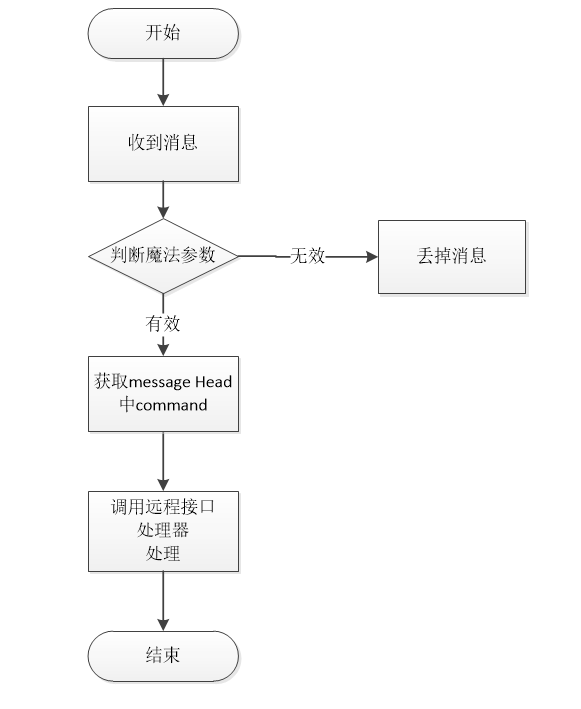
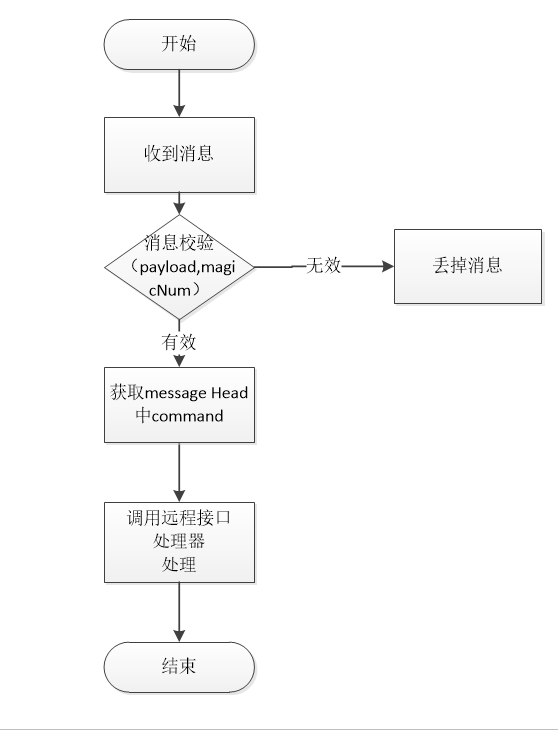
update message validate

diff --git a/design-en/c.Network design v1.3.md b/design-en/c.Network design v1.3.md
@@ -123,6 +123,12 @@ The network module is the basic module of the entire system, which is used to ma
 
   ![](./image/network-module/recMessage2.png)
 
+* Message verification ：
+
+        payload validate ：First 4 bytes of  sha256(sha256(payload))
+
+        magicNumbe ：Determine if the nodegroups collection contains the magicNumber
+
 * External module network message receiving interface constraint
 
    - method : ***  //Same as the CMD instruction in the message header, constraining 12 bytes

diff --git a/design-zh-CHS/c.网络模块设计v1.3.md b/design-zh-CHS/c.网络模块设计v1.3.md
@@ -126,6 +126,12 @@
 
   ![](./image/network-module/recMessage2.png)
 
+* 消息校验部分：
+
+        payload校验
+
+        magicNumber校验
+
 * 外部模块提供的接口参数约束
 
    - method : ***  //同消息头中的CMD指令，约束12字节
